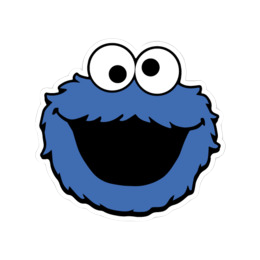
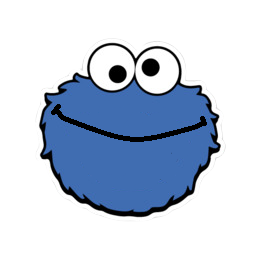
General Structure and idea of the Monogame design is implemented including extra design concepts. Now waiting for backend code to fully implement

Changed region(s): [[0.1846, 0.4, 0.8, 0.7385]]

diff --git a/RobbyVisualizer/RobbyVisualizerGame.cs b/RobbyVisualizer/RobbyVisualizerGame.cs
@@ -13,10 +13,10 @@ namespace RobbyVisualizer
         private SpriteBatch _spriteBatch;
         private GridUnitSprite[,] _grid;
         private CookieMonsterSprite _cookieMonster;
-        private CookieSprite _cookie;
+        private CookieSprite[,] _cookies;
         private ButtonSprite _buttonSprite;
         private Song _eatingCookie;
-
+        private SpriteFont _infoFontSprite;
         public RobbyVisualizerGame()
         {
             _graphics = new GraphicsDeviceManager(this);
@@ -27,10 +27,11 @@ namespace RobbyVisualizer
         protected override void Initialize()
         {
             _graphics.PreferredBackBufferWidth = 1770;
-            _graphics.PreferredBackBufferHeight = 980;
+            _graphics.PreferredBackBufferHeight = 1060;
             _graphics.ApplyChanges();
 
             _grid = new GridUnitSprite[10,10];
+            _cookies = new CookieSprite[10,10];
 
             int xPos = 470;
             int yPos = 30;
@@ -47,20 +48,23 @@ namespace RobbyVisualizer
                     GridUnitSprite gridUnit = new GridUnitSprite(this, xPos, yPos, color);
                     _grid[i, j] = gridUnit;
                     Components.Add(gridUnit);
+
+                    if((i % 2 == 0 && j % 2 == 0) || (i % 2 == 1 && j % 2 == 1)){
+                        CookieSprite cookie = new CookieSprite(this, xPos-10, yPos-10);
+                        _cookies[i, j] = cookie;
+                        Components.Add(cookie);
+                    }
                     xPos += 78;
                 }
                 xPos = 470;
                 yPos += 78;
-            }
-
-            _cookie = new CookieSprite(this, 460, 98);
-            Components.Add(_cookie);
+            }           
 
             // Moving square to square is -10 x and -10 y
             _cookieMonster = new CookieMonsterSprite(this, 460, 20);
             Components.Add(_cookieMonster);
 
-            _buttonSprite = new ButtonSprite(this, 650, 850);
+            _buttonSprite = new ButtonSprite(this, 650, 930);
             Components.Add(_buttonSprite);
 
             // TODO: Add your initialization logic here
@@ -72,6 +76,7 @@ namespace RobbyVisualizer
             _spriteBatch = new SpriteBatch(GraphicsDevice);
 
             _eatingCookie = Content.Load<Song>("Sounds/EatingCookie");
+            _infoFontSprite = Content.Load<SpriteFont>("Fonts/Info");
 
             // TODO: use this.Content to load your game content here
             base.LoadContent();
@@ -79,11 +84,22 @@ namespace RobbyVisualizer
 
         protected override void Update(GameTime gameTime)
         {
-            if(_cookieMonster.XPosition == _cookie.XPosition && _cookieMonster.YPosition == _cookie.YPosition ){
-                if(_cookie.IsVisible){
-                    MediaPlayer.Play(_eatingCookie);
+            for(int i =0; i< _cookies.GetLength(0); i++){
+                for(int j =0; j< _cookies.GetLength(1); j++){
+                    if( _cookies[i,j] != null){
+                        if(_cookieMonster.XPosition == _cookies[i,j].XPosition && _cookieMonster.YPosition == _cookies[i,j].YPosition){
+                            if(_cookies[i,j].IsVisible && _cookieMonster.Run){
+                                _cookieMonster.Eating = true;
+                                MediaPlayer.Play(_eatingCookie);
+                                _cookies[i,j].IsVisible = false;
+                            }
+                        }
+                    } else {
+                        if(_cookieMonster.XPosition + 10 == _grid[i,j].XPosition && _cookieMonster.YPosition + 10 == _grid[i,j].YPosition){
+                            _cookieMonster.Eating = false;
+                        }
+                    }
                 }
-                _cookie.IsVisible = false;
             }
 
             if(_buttonSprite.IsClicked){
@@ -97,8 +113,13 @@ namespace RobbyVisualizer
         protected override void Draw(GameTime gameTime)
         {
             GraphicsDevice.Clear(Color.CornflowerBlue);
-            // TODO: Add your drawing code here
 
+            _spriteBatch.Begin();
+            _spriteBatch.DrawString(_infoFontSprite, "Generation: ", new Vector2(470, 820), Color.White);
+            _spriteBatch.DrawString(_infoFontSprite, "Move: ", new Vector2(470, 855), Color.White);
+            _spriteBatch.DrawString(_infoFontSprite, "Points: ", new Vector2(470, 890), Color.White);
+            _spriteBatch.End();
+            // TODO: Add your drawing code here
             base.Draw(gameTime);
         }
     }

diff --git a/RobbyVisualizer/CookieMonsterSprite.cs b/RobbyVisualizer/CookieMonsterSprite.cs
@@ -12,6 +12,16 @@ namespace RobbyVisualizer
         private Game _game;
         private SpriteBatch _spriteBatch;
         private Texture2D _cookieMonsterSprite;
+        private Texture2D _cookieMonsterEatingSprite;
+        private bool _eating;
+        public bool Eating{
+            get{
+                return _eating;
+            }
+            set {
+                _eating = value;
+            }
+        }
         private bool _run;
         public bool Run{
             get{
@@ -43,6 +53,7 @@ namespace RobbyVisualizer
             _xPosition = xPosition;
             _yPosition = yPosition;
             _run = false;
+            _eating = false;
         }
 
         public override void Initialize()
@@ -57,6 +68,7 @@ namespace RobbyVisualizer
 
             // Created keySprite with the keyType (Image name) as the image
             _cookieMonsterSprite = _game.Content.Load<Texture2D>("CookieMonster");
+            _cookieMonsterEatingSprite = _game.Content.Load<Texture2D>("CookieMonsterEating");
 
             base.LoadContent();
         }
@@ -67,19 +79,19 @@ namespace RobbyVisualizer
             _current = Keyboard.GetState();
 
             if(_run){
-                    if (_previous.IsKeyDown(Keys.W) && _current.IsKeyUp(Keys.W) && _yPosition - 78 >= 20) {
-                        _yPosition -= 78;
-                    }
-                    if (_previous.IsKeyDown(Keys.S) && _current.IsKeyUp(Keys.S) && _yPosition + 78 <= 722) {
-                    _yPosition += 78;
-                    }
-                    if (_previous.IsKeyDown(Keys.A) && _current.IsKeyUp(Keys.A) && _xPosition - 78 >= 460) {
-                        _xPosition -= 78;
-                    }
-                    if (_previous.IsKeyDown(Keys.D) && _current.IsKeyUp(Keys.D) && _xPosition + 78 <= 1162) {
-                        _xPosition += 78;
-                    }
-                
+                if (_previous.IsKeyDown(Keys.W) && _current.IsKeyUp(Keys.W) && _yPosition - 78 >= 20) {
+                    _yPosition -= 78;
+                }
+                if (_previous.IsKeyDown(Keys.S) && _current.IsKeyUp(Keys.S) && _yPosition + 78 <= 722) {
+                _yPosition += 78;
+                }
+                if (_previous.IsKeyDown(Keys.A) && _current.IsKeyUp(Keys.A) && _xPosition - 78 >= 460) {
+                    _xPosition -= 78;
+                }
+                if (_previous.IsKeyDown(Keys.D) && _current.IsKeyUp(Keys.D) && _xPosition + 78 <= 1162) {
+                    _xPosition += 78;
+                }
+            
             }
 
             // Calls base Update
@@ -89,7 +101,11 @@ namespace RobbyVisualizer
         public override void Draw(GameTime gameTime)
         {
             _spriteBatch.Begin();
-            _spriteBatch.Draw(_cookieMonsterSprite, new Rectangle(_xPosition, _yPosition, 100, 100), Color.White);
+            if(_eating){
+                _spriteBatch.Draw(_cookieMonsterEatingSprite, new Rectangle(_xPosition, _yPosition, 100, 100), Color.White);
+            } else {
+                _spriteBatch.Draw(_cookieMonsterSprite, new Rectangle(_xPosition, _yPosition, 100, 100), Color.White);
+            }
             _spriteBatch.End();
             base.Draw(gameTime);
         }

diff --git a/RobbyVisualizer/GridUnitSprite.cs b/RobbyVisualizer/GridUnitSprite.cs
@@ -10,7 +10,20 @@ namespace RobbyVisualizer
         private SpriteBatch _spriteBatch;
         private Texture2D _squareSprite;
         private int _xPosition;
+
+        public int XPosition {
+            get {
+                return _xPosition;
+            }
+        }
+
         private int _yPosition;
+
+        public int YPosition {
+            get {
+                return _yPosition;
+            }
+        }
         private Color _color;
 
         public GridUnitSprite(Game game, int xPosition, int yPosition, Color color) : base(game){

diff --git a/RobbyVisualizer/ButtonSprite.cs b/RobbyVisualizer/ButtonSprite.cs
@@ -62,7 +62,7 @@ public class ButtonSprite : DrawableGameComponent
     {
         _spriteBatch.Begin();
         _spriteBatch.Draw(_squareSprite, new Rectangle(_xPosition,_yPosition,400,80), Color.White);
-        _spriteBatch.DrawString(_spriteFont, "Select Folder With Proper Data", new Vector2(680, 870), Color.Black);
+        _spriteBatch.DrawString(_spriteFont, "Select Folder With Proper Data", new Vector2(680, 960), Color.Black);
         _spriteBatch.End();
         base.Draw(gameTime);
     }
